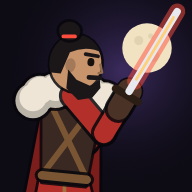
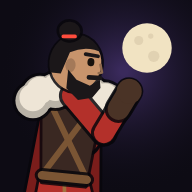
Remove swords and blades from fighters
Claude-Session: https://claude.ai/code/session_01UNaMSpEniWJFSZxagqqqPB

Changed region(s): [[0.5625, 0.0, 0.9688, 0.5625]]

diff --git a/index.html b/index.html
@@ -579,17 +579,17 @@ function drawHelmet(c,J,p,accent,acc,facing){
 }
 /* ---------- character looks, taken from the character art ---------- */
 const LOOKS={
- RONIN:{skin:'#c8946c',hair:'topknot',hairC:'#1b1719',beard:'#1b1719',top:'#3a2822',coat:'#b3302a',coatLen:'knee',torn:1,trim:'#a0703c',fur:'#eee5d6',cape:'#7a1d1b',sleeve:'#b3302a',glove:'#4a3326',pants:'#2a2228',boot:'#2a2124',prop:'sword',straps:'#7a5534',bulk:1.08},
- VEX:{skin:'#c8946c',head:'hood',hood:'#dfe5ee',hoodIn:'#0c1220',eyes:'glow',top:'#1d2738',scarf:'#e6ebf2',sleeve:'#1d2738',glove:'#141a26',pants:'#161c28',boot:'#10141c',prop:'blade',straps:'#2e3c56'},
+ RONIN:{skin:'#c8946c',hair:'topknot',hairC:'#1b1719',beard:'#1b1719',top:'#3a2822',coat:'#b3302a',coatLen:'knee',torn:1,trim:'#a0703c',fur:'#eee5d6',cape:'#7a1d1b',sleeve:'#b3302a',glove:'#4a3326',pants:'#2a2228',boot:'#2a2124',straps:'#7a5534',bulk:1.08},
+ VEX:{skin:'#c8946c',head:'hood',hood:'#dfe5ee',hoodIn:'#0c1220',eyes:'glow',top:'#1d2738',scarf:'#e6ebf2',sleeve:'#1d2738',glove:'#141a26',pants:'#161c28',boot:'#10141c',straps:'#2e3c56'},
  GOLEM:{rock:'#7a6450',rockD:'#3e3127',bulk:1.6},
  KAIRA:{skin:'#e7b897',hair:'mohawk',hairC:'#ff4f9a',top:'#1c1a22',sleeve:'skin',glove:'#2a1f28',pants:'#1c1a22',boot:'#151318',straps:'#ff5fa2',prop:'sickle'},
  HALE:{skin:'#e4c2a2',head:'wizard',hat:'#22335e',hatTrim:'#d7b55a',beard:'#eef2f8',beardLong:1,top:'#2b3d72',coat:'#2b3d72',coatLen:'ankle',trim:'#d7b55a',sleeve:'#e9eef5',glove:'#e9eef5',pants:'#1c2747',boot:'#141a2c',prop:'orb'},
- NYX:{head:'hood',hood:'#3a2860',hoodIn:'#07060c',top:'#1e1830',cape:'#4a2f80',torn:1,sleeve:'#241c38',glove:'#120f1c',pants:'#16121f',boot:'#0e0b14',prop:'blade',straps:'#2e2448'},
+ NYX:{head:'hood',hood:'#3a2860',hoodIn:'#07060c',top:'#1e1830',cape:'#4a2f80',torn:1,sleeve:'#241c38',glove:'#120f1c',pants:'#16121f',boot:'#0e0b14',straps:'#2e2448'},
  TEMPEST:{skin:'#d9a882',hair:'ponytail',hairC:'#141414',top:'#e8e3d8',coat:'#e8e3d8',coatLen:'short',torn:1,sash:'#2fd9a0',scarf:'#3dffb5',sleeve:'#e8e3d8',glove:'skin',pants:'#15161a',boot:'#101114'},
  SOL:{skin:'#b97f58',hair:'topknot',hairC:'#141010',beard:'#141010',chest:'skin',top:'#ebe5d8',sash:'#c4221c',sleeve:'skin',glove:'#3b2a1f',pants:'#231a17',boot:'#1a1311',bulk:1.15,prop:'flamefist'},
  RAM:{head:'hornhelm',helm:'#d0a63a',helmD:'#7c5f18',top:'#2a2420',armor:'#d0a63a',armorD:'#7c5f18',fur:'#efe8dc',sleeve:'#2a2420',glove:'#d0a63a',pants:'#2a2420',boot:'#c39a32',bulk:1.5,pad:1},
  SPARK:{skin:'#c9946c',hair:'spiky',hairC:'#eef3ff',goggle:'#5ab0ff',top:'#1c2944',sleeve:'#1c2944',glove:'#121a2c',pants:'#182238',boot:'#111827',straps:'#d9a520',prop:'sparkfist'},
- BRAND:{head:'hood',hood:'#d9a21e',hoodIn:'#0b0904',top:'#2a2118',coat:'#3a2c1c',coatLen:'knee',torn:1,sleeve:'#2a2118',glove:'#1a140e',pants:'#1c1712',boot:'#140f0a',prop:'blade',straps:'#5a4128'},
+ BRAND:{head:'hood',hood:'#d9a21e',hoodIn:'#0b0904',top:'#2a2118',coat:'#3a2c1c',coatLen:'knee',torn:1,sleeve:'#2a2118',glove:'#1a140e',pants:'#1c1712',boot:'#140f0a',straps:'#5a4128'},
  FLURRY:{skin:'#f0c3a5',hair:'ponytail',hairC:'#f0a6b4',scarf:'#d6303f',top:'#1b1a20',chest:'skin',sleeve:'skin',glove:'#7a2a30',pants:'#1b1a20',boot:'#141318',sash:'#d6303f'},
  SKID:{skin:'#c9946c',head:'hood',hood:'#8fe04a',hoodOpen:1,goggle:'#9dff5a',top:'#e6e9e2',sleeve:'#e6e9e2',glove:'#1d2318',pants:'#1a1f17',boot:'#12160f',straps:'#2a3a20'},
  TALON:{head:'raven',hood:'#231c33',top:'#1d1828',cape:'#5a35a0',torn:1,sleeve:'#241d33',glove:'#3a2e52',pants:'#16121f',boot:'#0f0c15',prop:'claws',armor:'#3a3350',armorD:'#241f33',pad:1},

diff --git a/sw.js b/sw.js
@@ -1,5 +1,5 @@
 // Ink Duel offline cache. Bump VERSION when you deploy changes.
-const VERSION = 'ink-duel-v7';
+const VERSION = 'ink-duel-v8';
 const CORE = ['./', './index.html', './manifest.webmanifest', './icon-192.png', './icon-512.png', './icon-maskable-512.png', './apple-touch-icon.png', './favicon-32.png'];
 
 self.addEventListener('install', e => {
